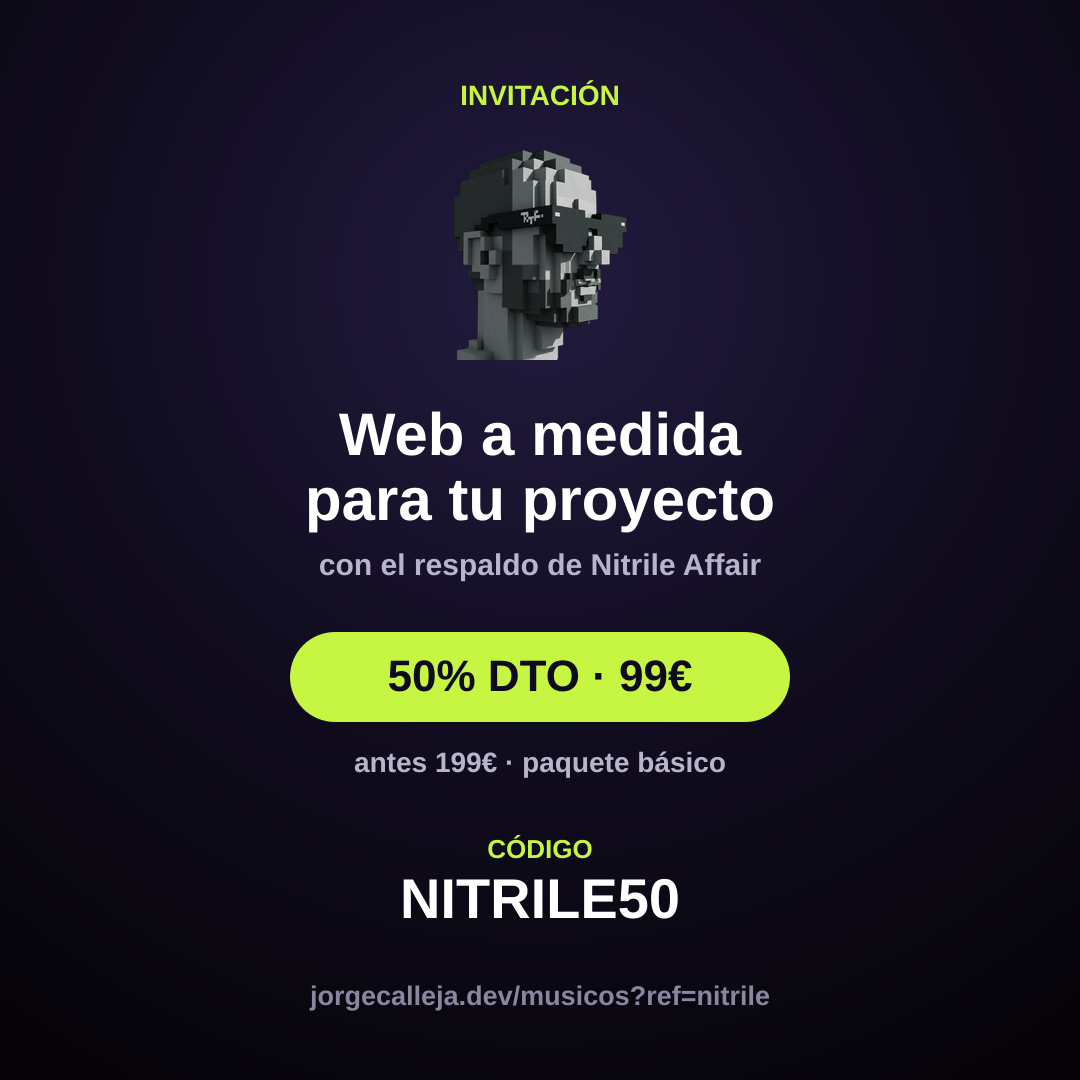
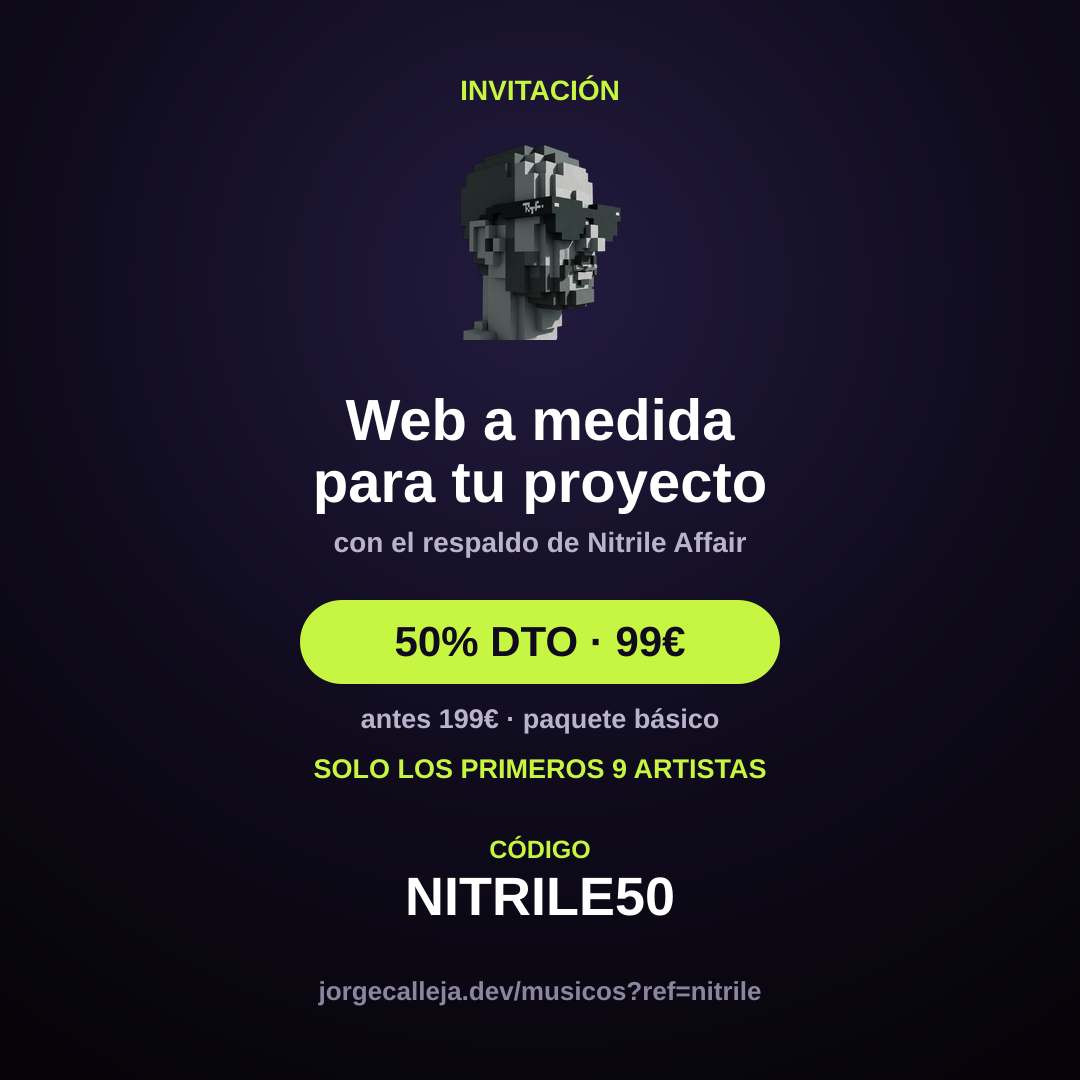
content: update referral campaign copy and images

diff --git a/marketing/17-referido-artistas/LEEME.md b/marketing/17-referido-artistas/LEEME.md
@@ -35,4 +35,25 @@ He's onboarding trusted people with a launch discount: with my code **NITRILE50*
 The discount is already applied here 👉 jorgecalleja.dev/musicos?ref=nitrile
 
 ### Pie de foto corto (para la historia/post)
-Web a medida para artistas con el respaldo de @nitrileaffair. Código NITRILE50 → 50% dto (99€). Plazas limitadas. Link en bio / desliza.
+Web a medida para artistas con el respaldo de @nitrileaffair. Código NITRILE50 → 50% dto (99€). Solo 9 artistas. Link en bio / desliza.
+
+---
+
+## Texto para el Instagram de Nitrile
+
+### Post (caption)
+Si eres músico y sigues sin web propia, esto te interesa 👇
+
+Un colega, Jorge (@elfarodetuweb), me montó la mía —nitrileaffair.com— y quedó justo como quería: mi música, mis vídeos, mis bolos y el contacto en un solo link que es MÍO, no alquilado a ningún algoritmo.
+
+Está abriendo hueco para 9 artistas con precio de lanzamiento: con mi código **NITRILE50** os sale a **99€** en vez de 199€ (web a medida, paquete básico). Solo los 9 primeros.
+
+Os dejo el link con el descuento ya aplicado 👉 jorgecalleja.dev/musicos?ref=nitrile
+
+#músicaindependiente #artistaindependiente #webparamúsicos #djs #productores
+
+### Story (texto corto sobre la tarjeta)
+¿Sin web propia todavía? Mi código NITRILE50 → 50% (99€). Solo 9 artistas.
+(añade el sticker de enlace a jorgecalleja.dev/musicos?ref=nitrile)
+
+> Nota: recuerda poner el enlace en la bio o en el sticker de la historia. En un post normal el link no es clicable, así que dirige a "link en bio".
